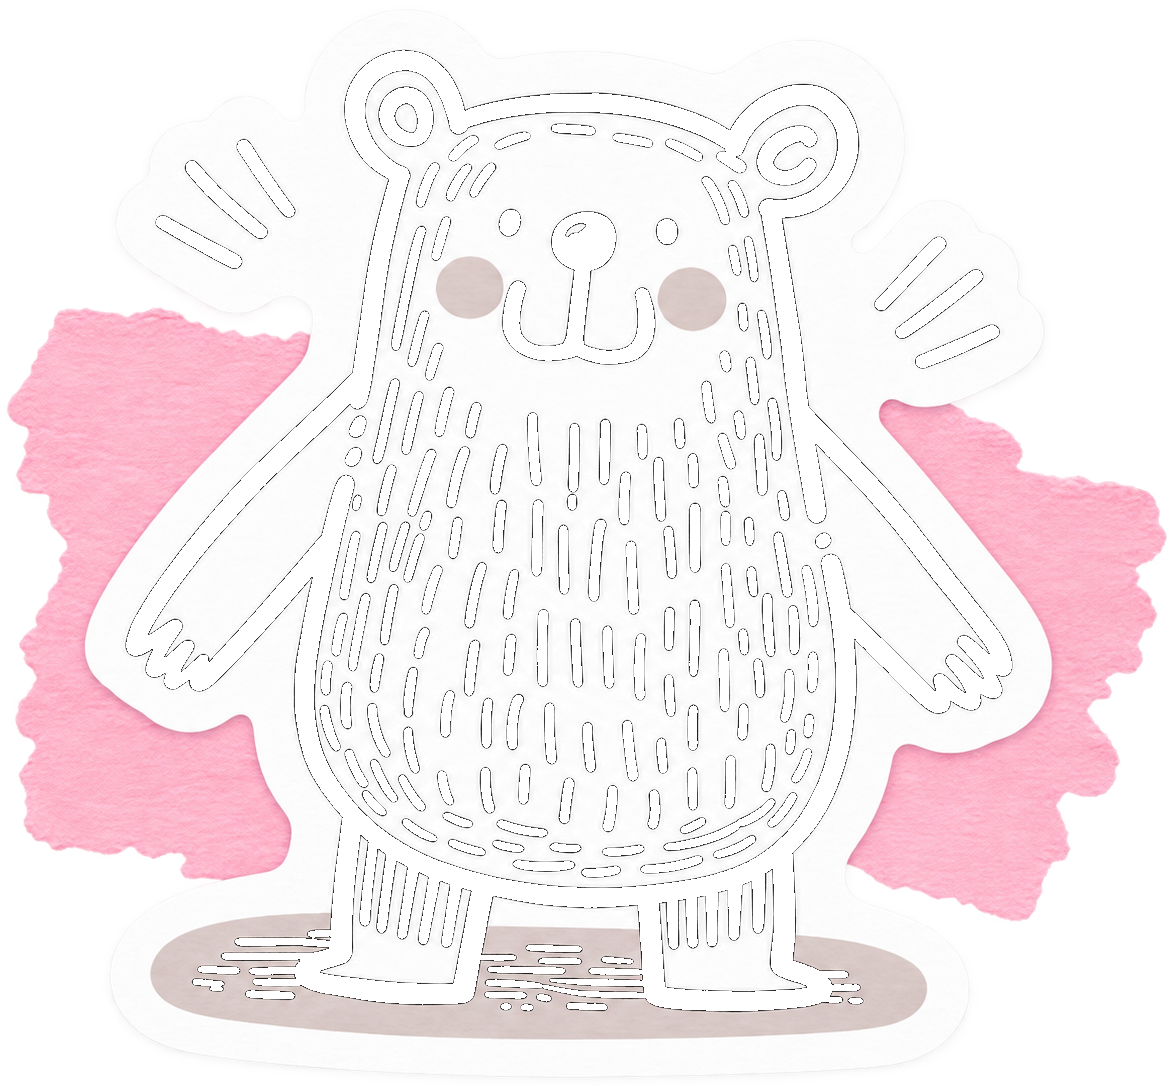
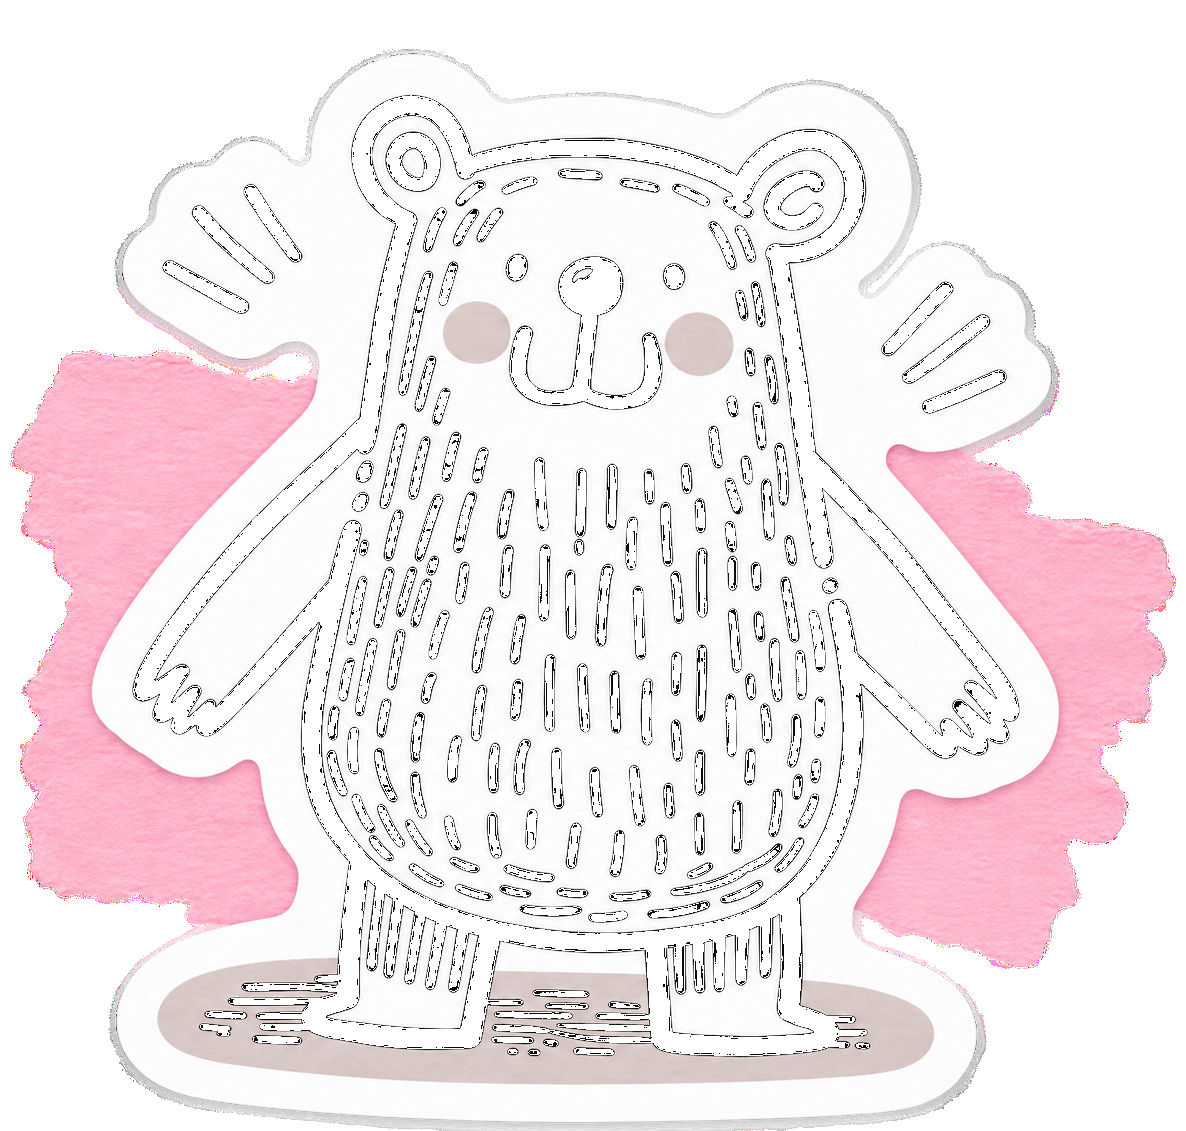
fix(home): opaque bear, mock defaults, quieter hover
Replace bear-sticker with a binary-alpha PNG and serve collage cuts as
PNG so WebP does not reintroduce mid-alpha. Hardcode mock positions for
all seven pieces (no random start). Cap hover tilt at 2.5deg with a
lighter drop-shadow; stickers stay opacity 1.

diff --git a/src/styles/collage.css b/src/styles/collage.css
@@ -27,7 +27,7 @@
   z-index: 50;
   overflow: visible;
   display: block;
-  min-height: 26rem;
+  min-height: 30rem;
   max-width: 72rem;
   margin-inline: auto;
   padding: 1.1rem 0.75rem 2.2rem;
@@ -40,14 +40,16 @@
   --tilt: 0deg;
   --lift: 0px;
   --grow: 1;
-  position: relative;
+  position: absolute;
   z-index: 2;
+  margin: 0;
+  opacity: 1;
   touch-action: none;
   cursor: grab;
   user-select: none;
   transform: translate3d(var(--dx), var(--dy), 0) translateY(var(--lift))
     rotate(calc(var(--rot) + var(--tilt))) scale(var(--grow));
-  filter: drop-shadow(1px 3px 5px rgb(40 18 28 / 0.16));
+  filter: drop-shadow(1px 2px 3px rgb(40 18 28 / 0.14));
   transition:
     filter 180ms ease,
     --tilt 180ms ease,
@@ -58,20 +60,18 @@
 .collage-hero [data-draggable]:hover,
 .collage-hero [data-draggable]:focus-visible,
 .collage-hero [data-draggable].is-lifted {
-  --tilt: 8deg;
-  --lift: -10px;
-  --grow: 1.05;
-  filter: drop-shadow(0 3px 0 rgb(255 253 253 / 0.9))
-    drop-shadow(12px 24px 16px rgb(40 18 28 / 0.45));
+  --tilt: 2.5deg;
+  --lift: -3px;
+  --grow: 1.015;
+  filter: drop-shadow(1px 4px 6px rgb(40 18 28 / 0.2));
 }
 
 .collage-hero [data-draggable].is-dragging {
   cursor: grabbing;
-  --tilt: 9deg;
-  --lift: -12px;
-  --grow: 1.06;
-  filter: drop-shadow(0 3px 0 rgb(255 253 253 / 0.9))
-    drop-shadow(14px 28px 20px rgb(40 18 28 / 0.5));
+  --tilt: 3deg;
+  --lift: -4px;
+  --grow: 1.02;
+  filter: drop-shadow(2px 5px 7px rgb(40 18 28 / 0.24));
 }
 
 @media (prefers-reduced-motion: reduce) {
@@ -93,29 +93,41 @@
   display: block;
   width: 100%;
   height: auto;
+  opacity: 1;
   pointer-events: none;
   -webkit-user-drag: none;
   object-fit: contain;
 }
 
+/* Mock defaults: hardcoded % of hero. Drag writes --dx/--dy after load. */
 .collage-logo {
+  top: 6%;
+  left: 4%;
   z-index: 6;
-  width: min(280px, 72vw);
-  margin: 0;
+  width: min(280px, 46vw);
   --rot: -4deg;
 }
 
 .collage-quote {
+  top: 34%;
+  left: 18%;
   z-index: 5;
-  width: min(420px, 92vw);
-  margin: 0.4rem 0 0;
+  width: min(420px, 62vw);
   --rot: 1.6deg;
 }
 
+.collage-bear {
+  top: 5%;
+  right: 2%;
+  z-index: 7;
+  width: min(200px, 36vw);
+}
+
 .collage-socials {
+  left: 4%;
+  bottom: 6%;
   z-index: 6;
-  width: min(220px, 58vw);
-  margin: 0.55rem 0 0;
+  width: min(220px, 48vw);
   --rot: -3deg;
 }
 
@@ -148,28 +160,25 @@
   width: 23%;
 }
 
-.collage-bear {
-  z-index: 7;
-  width: min(200px, 52vw);
-  margin: 0.35rem 0 0 auto;
-}
-
 .collage-hearts {
+  left: 3%;
+  bottom: 22%;
   z-index: 4;
-  width: min(120px, 32vw);
-  margin: 0.35rem 0 0;
+  width: min(120px, 26vw);
 }
 
 .collage-sparkle {
+  top: 5%;
+  right: 22%;
   z-index: 4;
-  width: min(90px, 24vw);
-  margin: 0.2rem 0 0 42%;
+  width: min(90px, 18vw);
 }
 
 .collage-arrow {
+  right: 6%;
+  bottom: 5%;
   z-index: 5;
-  width: min(140px, 36vw);
-  margin: 0.2rem 0 0 auto;
+  width: min(140px, 30vw);
   --rot: 4deg;
 }
 
@@ -179,58 +188,32 @@
     padding: 1.6rem 1rem 2.6rem;
   }
 
-  /* Beat .collage-hero [data-draggable] { position: relative } */
-  .collage-hero [data-draggable].collage-logo,
-  .collage-hero [data-draggable].collage-quote,
-  .collage-hero [data-draggable].collage-socials,
-  .collage-hero [data-draggable].collage-bear,
-  .collage-hero [data-draggable].collage-hearts,
-  .collage-hero [data-draggable].collage-sparkle,
-  .collage-hero [data-draggable].collage-arrow {
-    position: absolute;
-    margin: 0;
-  }
-
   .collage-logo {
-    top: 6%;
-    left: 5%;
     width: 280px;
   }
 
   .collage-quote {
-    top: 38%;
-    left: 14%;
+    left: 20%;
     width: 420px;
   }
 
-  .collage-socials {
-    left: 5%;
-    bottom: 7%;
-    width: 220px;
-  }
-
   .collage-bear {
-    top: 6%;
-    right: 3%;
     width: 200px;
   }
 
+  .collage-socials {
+    width: 220px;
+  }
+
   .collage-hearts {
-    top: 48%;
-    left: 2%;
     width: 120px;
   }
 
   .collage-sparkle {
-    top: 4%;
-    right: 28%;
-    left: auto;
     width: 90px;
   }
 
   .collage-arrow {
-    right: 8%;
-    bottom: 5%;
     width: 140px;
   }
 }
